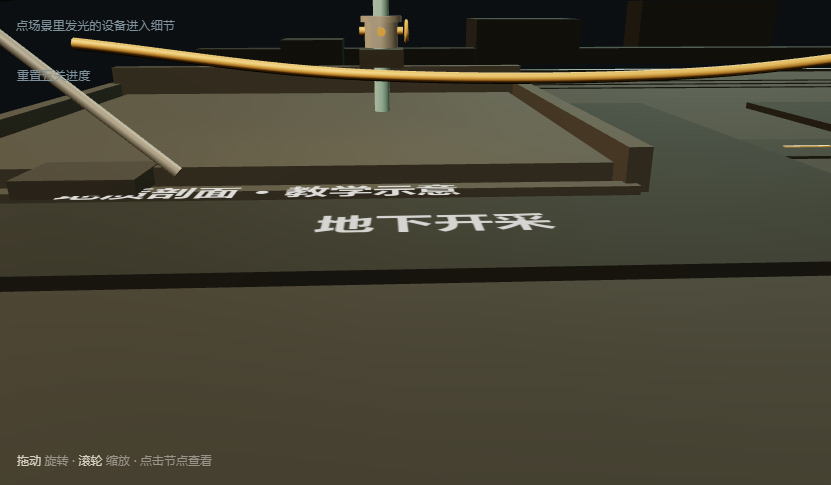
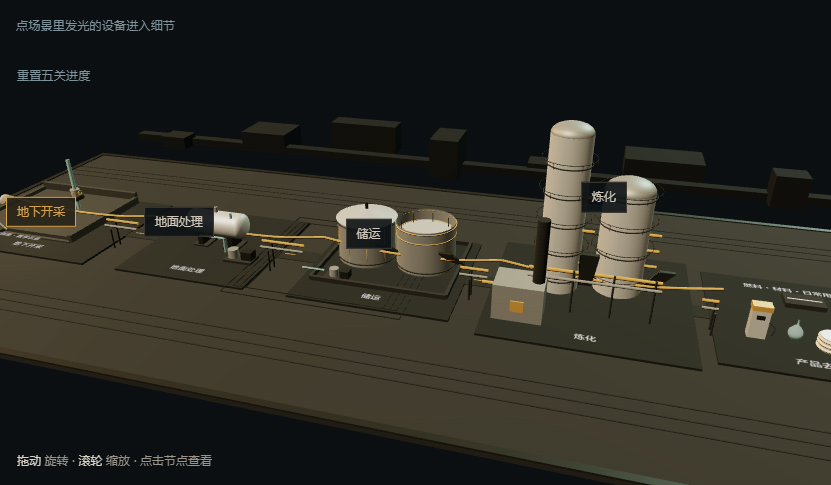
沙盘全景取景：补齐产品去向分区

diff --git a/web/immersion.js b/web/immersion.js
@@ -905,7 +905,7 @@
   });
   depthSelect.addEventListener('change', updateTask);
   document.getElementById('overview').addEventListener('click', function () {
-    moveCamera({ targetX: 2, targetY: 3.0, targetZ: 0, radius: 44, azimuth: 0.30, elevation: 0.50 });
+    moveCamera({ targetX: 6, targetY: 2.6, targetZ: 0, radius: 50, azimuth: 0.28, elevation: 0.46 });
   });
   document.getElementById('focus').addEventListener('click', function () { selectStage(currentStage, true); });
   document.getElementById('next').addEventListener('click', function () {
@@ -1052,7 +1052,7 @@
     if (!step) { stopTour(); return; }
     tourIndex = index;
     if (step.stage == null) {
-      moveCamera({ targetX: 2, targetY: 3.0, targetZ: 0, radius: 44, azimuth: 0.30, elevation: 0.50 });
+      moveCamera({ targetX: 6, targetY: 2.6, targetZ: 0, radius: 50, azimuth: 0.28, elevation: 0.46 });
       syncSceneContext(null);
     } else {
       selectStage(step.stage, true);
